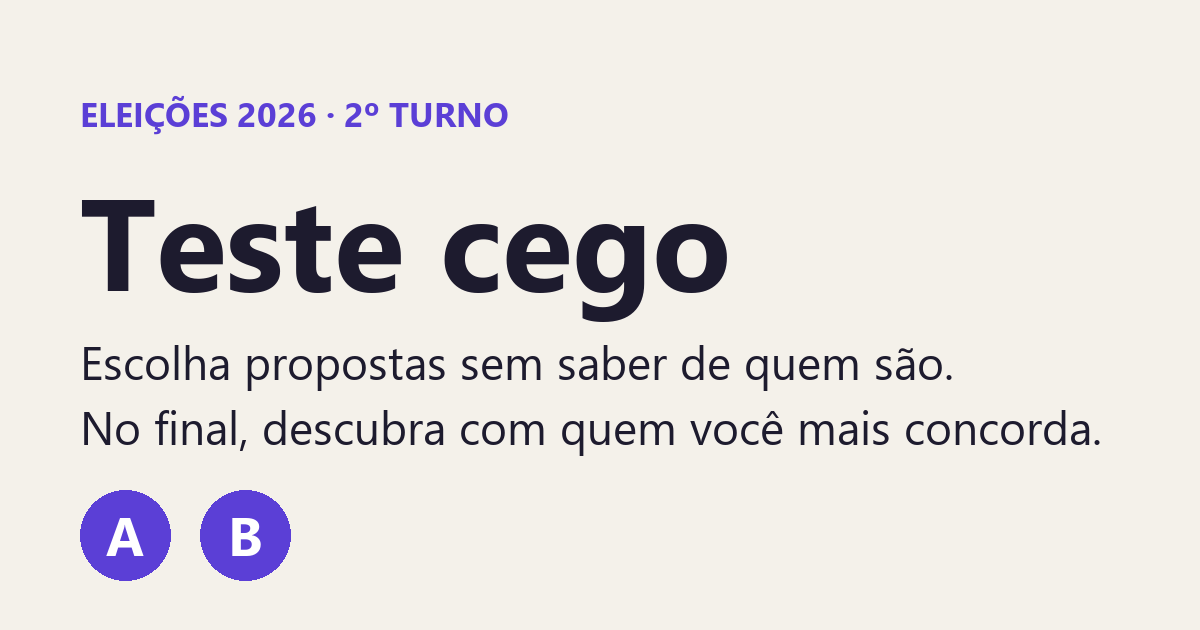
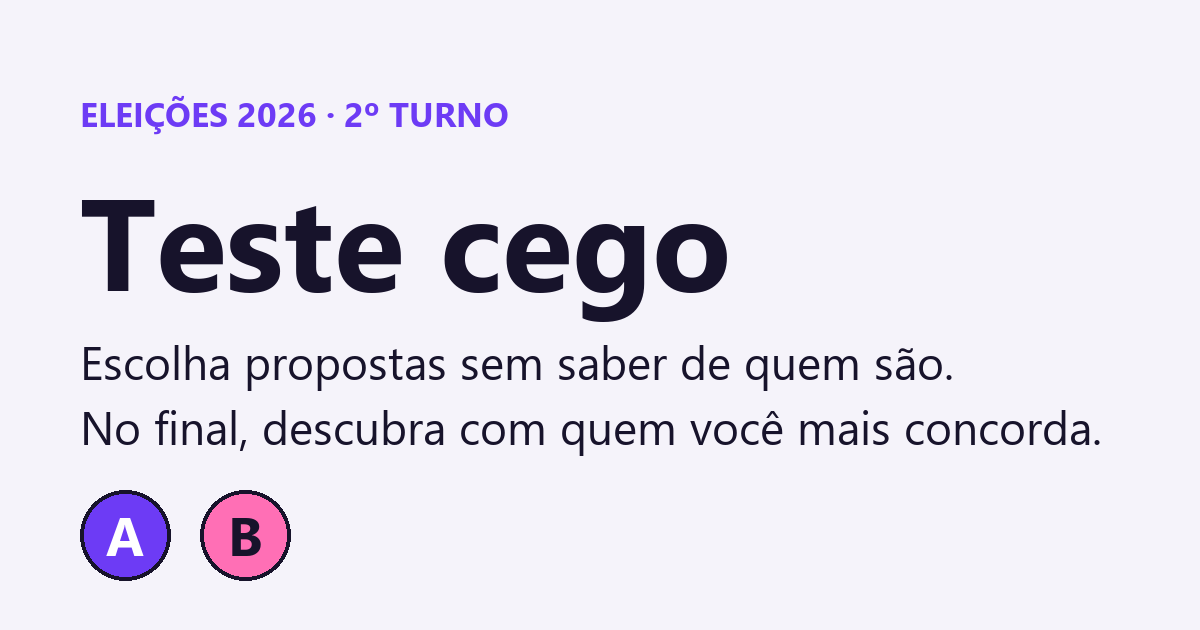
Paleta sem amarelo: roxo e rosa sobre neutros (v0.2)

Changed region(s): [[0.0617, 0.754, 0.2467, 0.9349], [0.0617, 0.1508, 0.4317, 0.2111]]

diff --git a/css/style.css b/css/style.css
@@ -1,5 +1,5 @@
 /* Estilo "blocos vibrantes": traço grosso, sombra dura, duas cores de destaque.
-   Roxo e âmbar de propósito: nada de vermelho, verde-amarelo ou azul de campanha. */
+   Roxo e rosa de propósito: nada de vermelho, amarelo, verde ou azul, cores associadas aos candidatos. */
 @font-face {
   font-family: "Bricolage Grotesque";
   src: url("../fonts/bricolage-grotesque.woff2") format("woff2");
@@ -8,18 +8,18 @@
 }
 
 :root {
-  --fundo: #f6f1e7;
+  --fundo: #f5f3fa;
   --papel: #ffffff;
   --tinta: #17132b;
   --suave: #5d5873;
   --traco: #17132b;
-  --linha: #d9d2c3;
+  --linha: #d7d2e4;
   --roxo: #6d3bf5;
   --roxo-tinta: #ffffff;
   --roxo-claro: #e9e1ff;
-  --ambar: #ffb629;
-  --ambar-tinta: #17132b;
-  --ambar-claro: #fff0cc;
+  --rosa: #ff6fb5;
+  --rosa-tinta: #17132b;
+  --rosa-claro: #ffe3f1;
   --sombra: #17132b;
   --link: #5a2ee0;
   --titulo: "Bricolage Grotesque", system-ui, -apple-system, "Segoe UI", Roboto, sans-serif;
@@ -37,9 +37,9 @@
   --roxo: #9b7bff;
   --roxo-tinta: #12101f;
   --roxo-claro: #2d2550;
-  --ambar: #ffc247;
-  --ambar-tinta: #17132b;
-  --ambar-claro: #3d3115;
+  --rosa: #ff8cc6;
+  --rosa-tinta: #17132b;
+  --rosa-claro: #4a2140;
   --sombra: #000000;
   --link: #b9a3ff;
   color-scheme: dark;
@@ -63,7 +63,7 @@ body {
 /* Formas geométricas de fundo: só em tela larga, fora da coluna de texto */
 @media (min-width: 1100px) {
   body::before, body::after { content: ""; position: fixed; z-index: -1; border: 3px solid var(--traco); }
-  body::before { width: 200px; height: 200px; right: 5vw; top: 120px; border-radius: 50%; background: var(--ambar); }
+  body::before { width: 200px; height: 200px; right: 5vw; top: 120px; border-radius: 50%; background: var(--rosa); }
   body::after { width: 150px; height: 150px; left: 5vw; bottom: 80px; border-radius: 28px; background: var(--roxo); transform: rotate(18deg); }
 }
 
@@ -130,8 +130,8 @@ main { flex: 1; width: 100%; max-width: 760px; margin: 0 auto; padding: 8px 16px
   padding: 5px 12px;
   border: 2.5px solid var(--traco);
   border-radius: 999px;
-  background: var(--ambar);
-  color: var(--ambar-tinta);
+  background: var(--rosa);
+  color: var(--rosa-tinta);
   font-size: 0.78rem;
   font-weight: 800;
   letter-spacing: 0.04em;
@@ -140,8 +140,8 @@ main { flex: 1; width: 100%; max-width: 760px; margin: 0 auto; padding: 8px 16px
 
 .inicio { padding-top: 3vh; }
 .chamada { font-size: 1.2rem; }
-.destaque { background: linear-gradient(transparent 58%, var(--ambar) 58%); }
-:root[data-theme="dark"] .destaque { background: none; color: var(--ambar); }
+.destaque { background: linear-gradient(transparent 58%, var(--rosa) 58%); }
+:root[data-theme="dark"] .destaque { background: none; color: var(--rosa); }
 
 .passos { list-style: none; margin: 0; padding: 0 0 6px; counter-reset: passo; }
 .passos li {
@@ -219,7 +219,7 @@ main { flex: 1; width: 100%; max-width: 760px; margin: 0 auto; padding: 8px 16px
   cursor: pointer;
   transition: transform 0.15s, box-shadow 0.15s, background-color 0.2s;
 }
-.botao.principal { background: var(--ambar); color: var(--ambar-tinta); box-shadow: 5px 5px 0 var(--sombra); }
+.botao.principal { background: var(--rosa); color: var(--rosa-tinta); box-shadow: 5px 5px 0 var(--sombra); }
 .botao.principal:hover { transform: translate(-1px, -1px); box-shadow: 6px 6px 0 var(--sombra); }
 .botao.principal:active { transform: translate(5px, 5px); box-shadow: 0 0 0 var(--sombra); }
 .botao.discreto { background: var(--papel); color: var(--tinta); font-size: 1rem; }
@@ -293,7 +293,7 @@ body:has(.rodada) .rodape { display: none; }
 .cartao:hover { transform: translate(-2px, -2px); box-shadow: 7px 7px 0 var(--sombra); }
 .cartao:active, .cartao.escolhido { transform: translate(5px, 5px); box-shadow: 0 0 0 var(--sombra); }
 .cartao.a.escolhido { background: var(--roxo-claro); }
-.cartao.b.escolhido { background: var(--ambar-claro); }
+.cartao.b.escolhido { background: var(--rosa-claro); }
 .cartoes.travado .cartao:not(.escolhido) { opacity: 0.45; }
 .letra {
   display: inline-flex;
@@ -309,7 +309,7 @@ body:has(.rodada) .rodape { display: none; }
   text-transform: uppercase;
 }
 .cartao.a .letra { background: var(--roxo); color: var(--roxo-tinta); }
-.cartao.b .letra { background: var(--ambar); color: var(--ambar-tinta); }
+.cartao.b .letra { background: var(--rosa); color: var(--rosa-tinta); }
 
 .acoes {
   position: fixed;
@@ -369,7 +369,7 @@ body:has(.rodada) .rodape { display: none; }
 
 .barra { display: flex; height: 22px; border: 2.5px solid var(--traco); border-radius: 999px; overflow: hidden; background: var(--papel); }
 .barra span:first-child { background: var(--roxo); }
-.barra span:last-child { background: var(--ambar); }
+.barra span:last-child { background: var(--rosa); }
 
 .bloco { margin-top: 14px; }
 .areas { list-style: none; margin: 0; padding: 0; display: grid; grid-template-columns: 1fr 1fr; gap: 8px; }
@@ -406,7 +406,7 @@ body:has(.rodada) .rodape { display: none; }
 .proposta summary { display: inline-flex; align-items: center; min-height: 44px; color: var(--link); font-size: 0.88rem; font-weight: 600; cursor: pointer; }
 .fontes { margin: 4px 0 0; padding-left: 18px; color: var(--suave); font-size: 0.86rem; }
 .fontes li + li { margin-top: 6px; }
-.contexto { display: grid; gap: 4px; margin-top: 8px; padding: 10px 12px; border-left: 5px solid var(--ambar); border-radius: 8px; background: var(--ambar-claro); font-size: 0.88rem; }
+.contexto { display: grid; gap: 4px; margin-top: 8px; padding: 10px 12px; border-left: 5px solid var(--rosa); border-radius: 8px; background: var(--rosa-claro); font-size: 0.88rem; }
 
 .rodape {
   display: flex;

diff --git a/index.html b/index.html
@@ -11,7 +11,7 @@
   <meta property="og:image" content="https://areiasthiago.github.io/teste-cego-eleitoral/img/og.png">
   <meta property="og:url" content="https://areiasthiago.github.io/teste-cego-eleitoral/">
   <meta name="twitter:card" content="summary_large_image">
-  <meta name="theme-color" content="#f6f1e7">
+  <meta name="theme-color" content="#f5f3fa">
   <script>
     (function () {
       var tema;
@@ -22,14 +22,14 @@
   </script>
   <link rel="icon" href="img/icone.svg" type="image/svg+xml">
   <link rel="preload" href="fonts/bricolage-grotesque.woff2" as="font" type="font/woff2" crossorigin>
-  <link rel="stylesheet" href="css/style.css?v=0.1">
+  <link rel="stylesheet" href="css/style.css?v=0.2">
 </head>
 <body>
   <header class="topo">
     <a class="marca" href="./">
-      <svg viewBox="0 0 32 32" aria-hidden="true"><rect x="1.5" y="1.5" width="29" height="29" rx="9" fill="#6d3bf5" stroke="currentColor" stroke-width="2.5"/><path d="M7 16c2.5-4 5.5-6 9-6s6.500 2 9 6c-2.500 4-5.500 6-9 6s-6.500-2-9-6z" fill="#fff"/><circle cx="16" cy="16" r="3" fill="#17132b"/><path d="M8 24 24 8" stroke="#ffb629" stroke-width="3.500" stroke-linecap="round"/></svg>
+      <svg viewBox="0 0 32 32" aria-hidden="true"><rect x="1.5" y="1.5" width="29" height="29" rx="9" fill="#6d3bf5" stroke="currentColor" stroke-width="2.5"/><path d="M7 16c2.5-4 5.5-6 9-6s6.500 2 9 6c-2.500 4-5.500 6-9 6s-6.500-2-9-6z" fill="#fff"/><circle cx="16" cy="16" r="3" fill="#17132b"/><path d="M8 24 24 8" stroke="#ff6fb5" stroke-width="3.500" stroke-linecap="round"/></svg>
       Teste cego
-      <span class="versao">v0.1</span>
+      <span class="versao">v0.2</span>
     </a>
     <button class="tema" type="button" aria-label="Mudar para o tema escuro">
       <svg class="sol" viewBox="0 0 24 24" fill="none" stroke="currentColor" stroke-width="2.200" stroke-linecap="round" aria-hidden="true"><circle cx="12" cy="12" r="4.200"/><path d="M12 2.500v2.200M12 19.300v2.200M2.500 12h2.200M19.300 12h2.200M5.300 5.300l1.600 1.600M17.100 17.100l1.600 1.600M5.300 18.700l1.600-1.600M17.100 6.900l1.600-1.600"/></svg>

diff --git a/sobre.html b/sobre.html
@@ -4,7 +4,7 @@
   <meta charset="utf-8">
   <meta name="viewport" content="width=device-width, initial-scale=1">
   <title>Como funciona · Teste cego das eleições 2026</title>
-  <meta name="theme-color" content="#f6f1e7">
+  <meta name="theme-color" content="#f5f3fa">
   <script>
     (function () {
       var tema;
@@ -14,14 +14,14 @@
     })();
   </script>
   <link rel="icon" href="img/icone.svg" type="image/svg+xml">
-  <link rel="stylesheet" href="css/style.css?v=0.1">
+  <link rel="stylesheet" href="css/style.css?v=0.2">
 </head>
 <body>
   <header class="topo">
     <a class="marca" href="./">
-      <svg viewBox="0 0 32 32" aria-hidden="true"><rect x="1.5" y="1.5" width="29" height="29" rx="9" fill="#6d3bf5" stroke="currentColor" stroke-width="2.5"/><path d="M7 16c2.5-4 5.5-6 9-6s6.500 2 9 6c-2.500 4-5.500 6-9 6s-6.500-2-9-6z" fill="#fff"/><circle cx="16" cy="16" r="3" fill="#17132b"/><path d="M8 24 24 8" stroke="#ffb629" stroke-width="3.500" stroke-linecap="round"/></svg>
+      <svg viewBox="0 0 32 32" aria-hidden="true"><rect x="1.5" y="1.5" width="29" height="29" rx="9" fill="#6d3bf5" stroke="currentColor" stroke-width="2.5"/><path d="M7 16c2.5-4 5.5-6 9-6s6.500 2 9 6c-2.500 4-5.500 6-9 6s-6.500-2-9-6z" fill="#fff"/><circle cx="16" cy="16" r="3" fill="#17132b"/><path d="M8 24 24 8" stroke="#ff6fb5" stroke-width="3.500" stroke-linecap="round"/></svg>
       Teste cego
-      <span class="versao">v0.1</span>
+      <span class="versao">v0.2</span>
     </a>
     <button class="tema" type="button" aria-label="Mudar para o tema escuro">
       <svg class="sol" viewBox="0 0 24 24" fill="none" stroke="currentColor" stroke-width="2.200" stroke-linecap="round" aria-hidden="true"><circle cx="12" cy="12" r="4.200"/><path d="M12 2.500v2.200M12 19.300v2.200M2.500 12h2.200M19.300 12h2.200M5.300 5.300l1.600 1.600M17.100 17.100l1.600 1.600M5.300 18.700l1.600-1.600M17.100 6.900l1.600-1.600"/></svg>

diff --git a/js/tema.js b/js/tema.js
@@ -6,7 +6,7 @@ const botao = document.querySelector('.tema');
 function aplicar(tema) {
   raiz.dataset.theme = tema;
   botao.setAttribute('aria-label', tema === 'dark' ? 'Mudar para o tema claro' : 'Mudar para o tema escuro');
-  document.querySelector('meta[name="theme-color"]')?.setAttribute('content', tema === 'dark' ? '#12101f' : '#f6f1e7');
+  document.querySelector('meta[name="theme-color"]')?.setAttribute('content', tema === 'dark' ? '#12101f' : '#f5f3fa');
 }
 
 aplicar(raiz.dataset.theme === 'dark' ? 'dark' : 'light');

diff --git a/js/compartilhar.js b/js/compartilhar.js
@@ -36,7 +36,7 @@ export async function gerarImagem(lados) {
   const ctx = canvas.getContext('2d');
   const fonte = (peso, tamanho) => `${peso} ${tamanho}px "Bricolage Grotesque", system-ui, -apple-system, "Segoe UI", Roboto, sans-serif`;
 
-  ctx.fillStyle = '#f6f1e7';
+  ctx.fillStyle = '#f5f3fa';
   ctx.fillRect(0, 0, L, A);
   ctx.textAlign = 'center';
 
